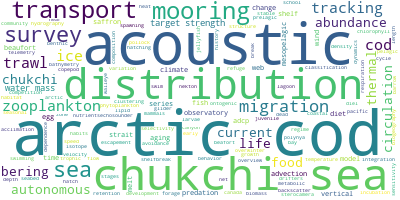
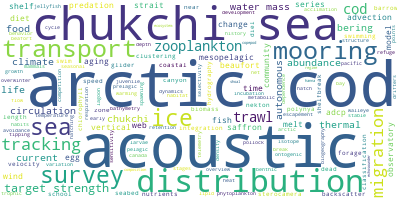
day, ehrenberg, duarte

diff --git a/README.md b/README.md
@@ -34,6 +34,8 @@ Notes (author, year, journal in file header) on readings.  Top of each note docu
      * Arrhenius et al. deployed an upward facing echosounder in two lakes to determine the ability of a split-beam echosounder to track fish, using a stereo-video system to validate the recorded swim speeds. 
 * [Brede1990IMR - Target tracking with a split-beam echo sounder](https://github.com/leviner/ReadingList/tree/master/papers/acoustics/targets/Brede1990IMR.md) 
      * Demonstration of the ability to track targets and the ability to determine target strength and directivity in the beam. 
+* [EhrenbergTorkelson1996JMS - Application of dual-beam and split-beam target tracking in fisheries acoustics](https://github.com/leviner/ReadingList/tree/master/papers/acoustics/targets/EhrenbergTorkelson1996JMS.md) 
+     * Discussion of dual-beam and split-beam fish tracking techniques and their application for fisheries research.  Appendix contains calculations for error/noise in split-beam angular estimates. 
 * [Foote1987JASA - Fish target strengths for use in echo integrator surveys](https://github.com/leviner/ReadingList/tree/master/papers/acoustics/targets/Foote1987JASA.md) 
      * An investigation into the backscattering cross section, or target strength, of fish, and the methods for in situ determination of TS and relating it to fish length.  Foote proposes a set of regression analyses from in situ measurements for generalized fish families based on available data. 
 * [TorgersenKaartvedt2001JMR - In situ swimming behaviour of individual mesopelagic fish studied by split-beam echo target tracking](https://github.com/leviner/ReadingList/tree/master/papers/acoustics/targets/TorgersenKaartvedt2001JMR.md) 
@@ -125,10 +127,17 @@ Notes (author, year, journal in file header) on readings.  Top of each note docu
 * [Wyllie-Echeverria1997AFS - Water masses and transport of age-0 Arctic cod and age-0 Bering flounder into the northeastern Chukchi Sea](https://github.com/leviner/ReadingList/tree/master/papers/pacificArctic/fishes/Wyllie-Echeverria1997AFS.md) 
      * Describe the abundance and distribution of larval bering flounder in late summer from 1989-1991 in relation to the sampled water masses.  Included collection of age-0 Arctic cod throughout the NE Chukchi to investigate water mass associations. 
 
+### ice 
+ 
+* [Duarte2012NCC - Abrupt climate change in the Arctic](https://github.com/leviner/ReadingList/tree/master/papers/pacificArctic/ice/Duarte2012NCC.md) 
+     * Discussion of the causes and impacts of climate change in the Arctic. 
+
 ### zooplankton 
  
 * [Ashjian2017DSRII - Mesozooplankton abundance and distribution in association with hydrography on Hanna Shoal, NE Chukchi Sea, during August 2012 and 2013](https://github.com/leviner/ReadingList/tree/master/papers/pacificArctic/zooplankton/Ashjian2017DSRII.md) 
      * Description of the late-summer zooplankton community composition at Hannah Shoal during August of 2012 and 2013, focusing on copepods and euphausiids of interest for bowhead whales. 
+* [Day2013CSR - The offshore northeastern Chukchi Sea, Alaska: A complex high-latitude ecosystem](https://github.com/leviner/ReadingList/tree/master/papers/pacificArctic/zooplankton/Day2013CSR.md) 
+     * Synthesis of the findings from the Chukchi Sea Environmental Studies Program from 2008-2010 at three regions of oil exploration interest near Hanna Shoal. 
 * [Kitamura2017CSR - Seasonal dynamics of zooplankton in the southern Chukchi Sea revealed from acoustic backscattering strength](https://github.com/leviner/ReadingList/tree/master/papers/pacificArctic/zooplankton/Kitamura2017CSR.md) 
      * Use of AZFPs to describe the seasonality of zooplankton biomass, and identify the dominant scatterers in the southern Chukchi Sea, finding a seasonal peak in biomass in autumn and a minimum in early spring, not corresponnding with phytoplankton production.  Zooplpankton communities in the southern Chukchi are largely driven by advection from the Bering. 
 * [PinchukEisner2017DSRII - Spatial heterogeneity in zooplankton summer distribution in the eastern Chukchi Sea in 2012–2013 as a result of large-scale interactions of water masses](https://github.com/leviner/ReadingList/tree/master/papers/pacificArctic/zooplankton/PinchukEisner2017DSRII.md) 

diff --git a/papers/pacificArctic/zooplankton/Day2013CSR.md b/papers/pacificArctic/zooplankton/Day2013CSR.md
@@ -1,0 +1,55 @@
+01/06/19
+## Authors:
+Day, Robert H and Weingartner, Thomas J and Hopcroft, Russell R and Aerts, Lisanne A M and Blanchard, Arny L and Gall, Adrian E and Gallaway, Benny J and Hannay, David E and Holladay, Brenda A and Mathis, Jeremy T and Norcross, Brenda L and Questel, Jennifer M and Wisdom, Sheyna S
+## Title:
+The offshore northeastern Chukchi Sea, Alaska: A complex high-latitude ecosystem
+## Keywords:
+community, ecosystem, hanna shoal
+## Geographic Coverage
+Chukchi Sea
+## Field Dates:
+07/01/2008 - 10/30/2010
+## Significance:
+Synthesis of the findings from the Chukchi Sea Environmental Studies Program from 2008-2010 at three regions of oil exploration interest near Hanna Shoal.
+
+## Notes:
+Conducted an interdisciplinary study in three regions of interest for oil exploration in the northeastern Chukchi just southwest of Hannah Shoal.  Data was collected from shipboard measurements with fixed and random station sampling, and acoustic moorings.
+
+**Further detailed information on zooplankton and fish can be found in Questel et al., 2013 and Norcross et al., 2013, respectively**
+
+Physical Oceanography
+- Bering Sea Water spread east from the central channel, observed in each year.
+- Bottom water temperatures can be dramatically different across space
+
+Nutrients
+- Nutrients were stripped out of the upper water column, mostly present below the pycnocline in Winter Water
+- Increase at depth either due to remineralization or possibly upwelling
+- The SCM was just at/below the pycnocline
+- Aragonite saturation state was lowest at ~.7 in september/october at some stations, having decreased over the course of the open water season
+
+Zooplankton
+- Copepods made up the majority of the biomass, though the compositoin of the community varied spatially
+- Planktonic communities were found to change seasonally, particularly in relation to changing local temperatures.
+- COmmunity composition shifts from early summer to late summer, then back to early summer composition in fall.
+
+Benthic community abundance and biomass varied by year and site.
+
+Demersal fish community
+- combination of circumpolar and subarctic species
+- highest densities and richness in area of warm bottom temperatures
+
+Seabirds and marine mammals
+- Seabird are a mix of holoarctic, beringian, palearctic, and australasian migratory
+- In years of BSW extension, zooplankton-feeding seabirds are more prevalent
+- Ice and water mass influence the distribution and abundance of pinnipeds
+- In the absence of ice, it appears that walrus were swimming to feed at Hanna shoal from coastal haulout locations
+
+Summary: two distinct ecosystems in the NE Chukchi; pelagic and benthic
+- The pelagic dominated ecosystem is a reflection of the BSW, mostly in the central channel where warm moderate nutrient water exists, with more oceanic zooplankton and a higher grazing (trophic transfer) capacity, plus higher density and species richness of demersal fishes.
+- Benthic community reflects melt water and winter water impacts, with low grazing and high export.  This is clear in the distinction of domains of the zooplankton community.
+- Interannual differences in zooplankton and seabirds are attributed to BSW/MW variability, with spatial differences reflecting the environmental properties.
+- Production is low in the chukchi, though there is high energy transfer and advection from other carbon sources.  
+- Low abundance and small size of demersal fishes, particularly relative to near shore communities
+- "tremendous ecological variation in a small area"
+
+"Pelagic communities in the northeastern Chukchi Sea are poorly developed and depend primarily on the flow of zooplankton from areas farther south"

diff --git a/papers/acoustics/targets/EhrenbergTorkelson1996JMS.md b/papers/acoustics/targets/EhrenbergTorkelson1996JMS.md
@@ -1,0 +1,38 @@
+01/06/19
+## Authors:
+Ehrenberg, J. and Torkelson, T. C.
+## Title:
+Application of dual-beam and split-beam target tracking in fisheries acoustics
+## Keywords:
+acoustic, tracking, target strength
+## Geographic Coverage
+N/A
+## Field Dates:
+N/A
+## Significance:
+Discussion of dual-beam and split-beam fish tracking techniques and their application for fisheries research.  Appendix contains calculations for error/noise in split-beam angular estimates.
+
+## Notes:
+When combined with dual-beam or split-beam systems, the usefulness of target tracking is enhanced.  Initial applications were for the removal of beam-pattern discrepecies in the measurements of backscattering cross section (TS) calculations of targets.  By tracking a single targets across multiple pings, lower variance estimates of TS can be collected.  Angular information can also be used for swim speed, location in the water column, and direction.
+
+Two step process:
+- Identification of a single target based on pulse shape criteria.
+- Use a series of collected single targets to produce a track, formed sequentially, using information a t=[-n to 0] to inform the expected location at t=1.  If criteria are not met, a new track is begun.
+
+1. Single target average strength measurements
+- The conversion of TS to length is made complicated by the ping-to-ping variability in TS estimates of individuals.
+- Tracks can be used to isolate the estimates from individual fish by producing a single reduced-variance estimate of average TS for each fish.
+
+The number of detections of a single fish can be maximized by accepting targets for a wide range of beam angles, though too large of an angle can insert a bias since small targets are less likely to be detected further off axis.  The higher SNR, the less bias.
+
+As SNR decreases:
+- smaller fish in the edge of the beam will result in echo levels comparable to noise level that will not meet a discrimination threshold, which will produce a biased estimate of higher TS
+- Additional noise increases the average level of the signal output, which will also bias the estimates too large
+- Noise impacts the beam pattern, though split-beam estimates are less biased due to improved beam-pattern and target location mapping.
+
+At high SNR, variations in the TS estimates are due to randomness of backscattering cross section.  This decreases with a larger beam width due to the increased number of detections for a larger beam.
+
+2. Split-beam tracking
+- Angular locations from split-beam improve tracking, and make it possible to sort out between multiple scatterers
+- TS estimates are relatively insensitive to added noise
+- Can be used from a fixed location to monitor fish passage

diff --git a/papers/pacificArctic/ice/Duarte2012NCC.md b/papers/pacificArctic/ice/Duarte2012NCC.md
@@ -1,0 +1,32 @@
+01/06/19
+## Authors:
+Duarte, Carlos M. and Lenton, Timothy M. and Wadhams, Peter and Wassmann, Paul
+## Title:
+Abrupt climate change in the Arctic
+## Keywords:
+tipping points, climate, ice, warming
+## Geographic Coverage
+Arctic
+## Field Dates:
+N/A
+## Significance:
+Discussion of the causes and impacts of climate change in the Arctic.
+
+## Notes:
+In the Arctic, the rate of climate change is now faster than ecosystems can naturally adapt, and human activities and health are being compromised.  
+
+Here, the authors argue that the debate over the definiteion of a tipping point is distracting from the need to develop early warning indicators of change and addressing the causes and impacts.
+
+Warming in the Arctic is proceeding at 3 times the global average over the last decade, and loss of sea ice has been linked to extreme cold winters in Europe.  Near complete loss of sea ice in summer is predicted for mid-century and has implications for the jet stream and storm tracks in the northern hemisphere.
+
+Shrinkage of sea ice has proceeded faster than predicted.  
+
+The authors argue that a tipping point does not have to be a point of no return, though difficult to reverse, and this confusion is distracting from the need for action.
+
+The recovery of ice to full extent in winter does not imply recovery, since this also is dependent on the thickness of ice, which show a dramatic decrease in the sea ice volume in recent decades, and thus the variability in ice extent has increased as first-year ice (and hence more prone to melt in summer) dominates.
+
+Reduced sea ice is expected to change the size and species composition of plankton in an irreversible manner, with ramifications for higher trophic levels and air-sea carbon exchange.
+
+A systematic effort should be made to look for signs of further change.  Time series of ecology are patchy at best, though the maintenance of biological observations is important to develop adaptive strategies.
+
+The authors suggest immediate mitigation of radiative forcing agents.
